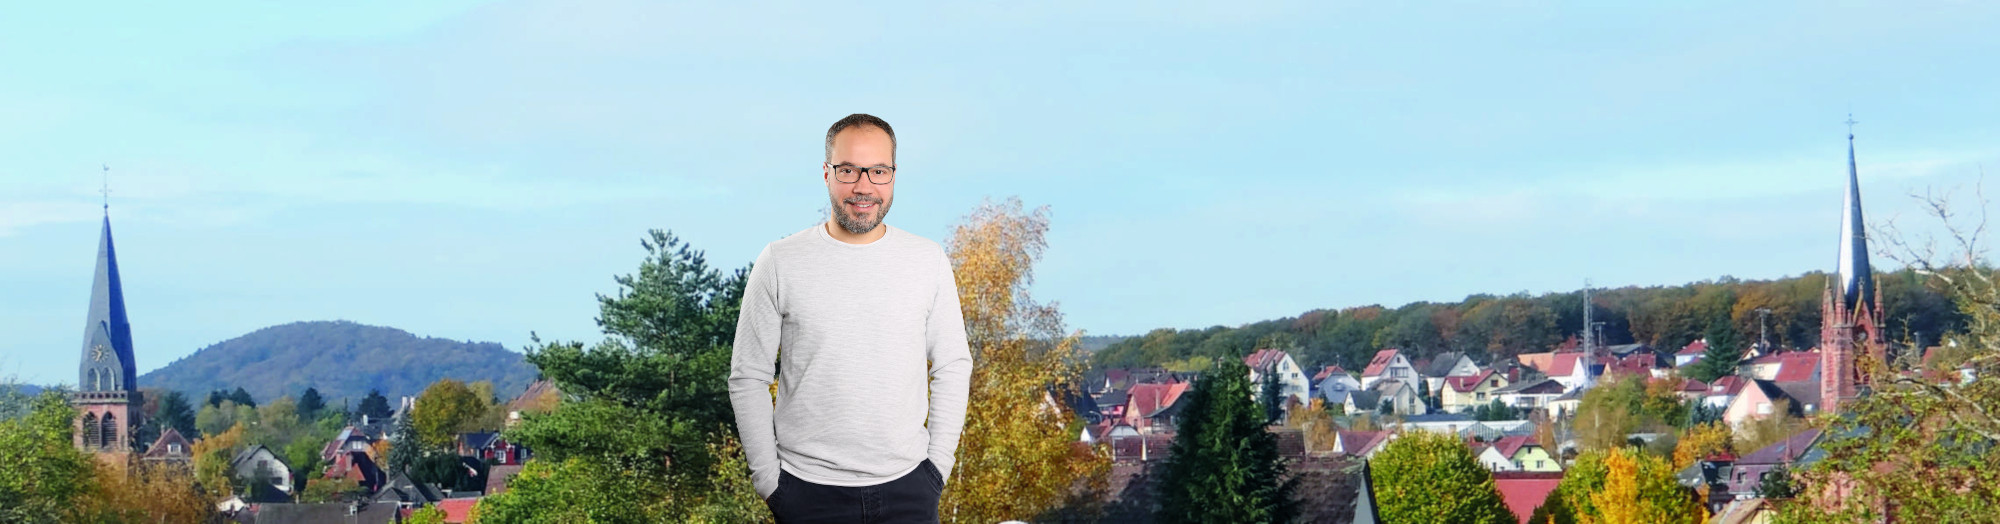
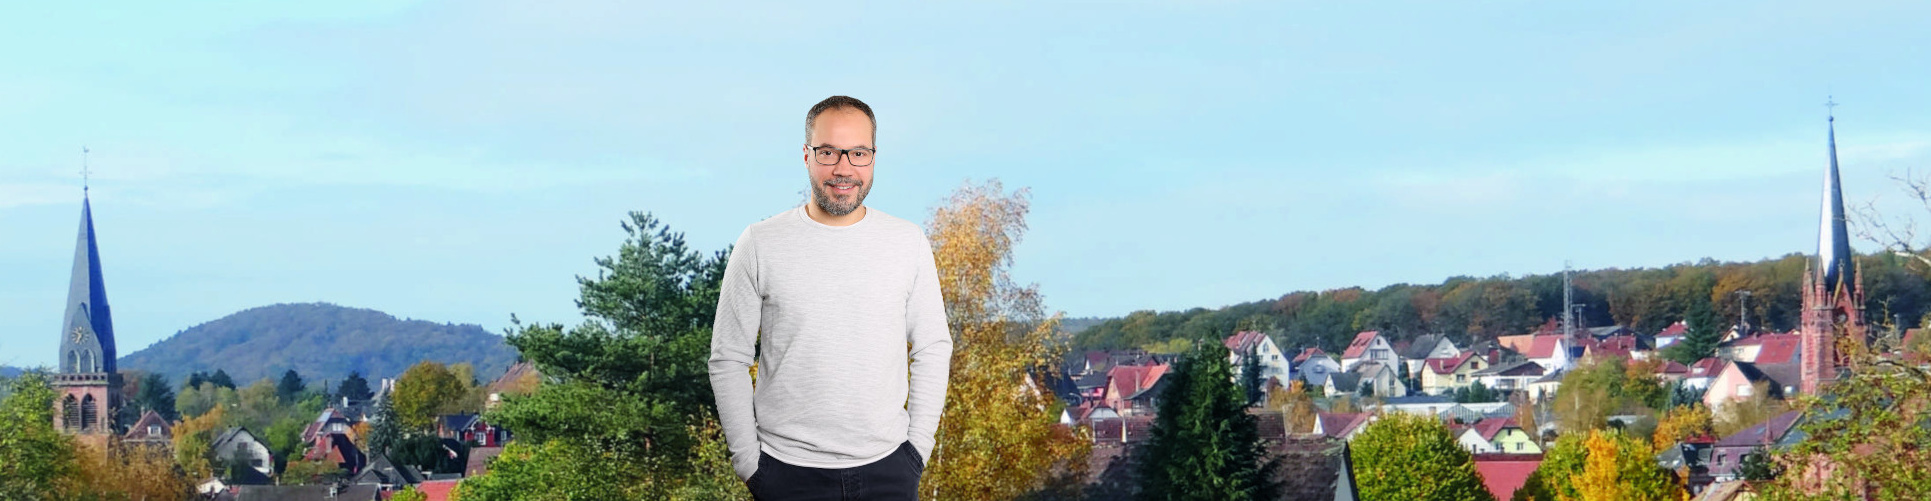
essais position bandeau - left

Changed region(s): [[0.0, 0.1796, 1.0, 1.0]]

diff --git a/_site/2019/01/10/credits/index.html b/_site/2019/01/10/credits/index.html
@@ -741,7 +741,7 @@
               <div class="col-md-6">
                       <a href="#portfolioModal1000" data-toggle="modal" class="btn btn-primary btn-sm">Mentions légales</a>
                       <a href="#portfolioModal1001" data-toggle="modal" class="btn btn-primary btn-sm">Crédits</a>
-                      <button type="button" class="btn btn-primary btn-sm"><script type="text/javascript" src="//counter.websiteout.net/js/2/6/25/0"></script></button>
+                      <button type="button" class="btn btn-primary btn-sm"><script type="text/javascript" src="//counter.websiteout.net/js/7/6/25/0"></script></button>
               </div>
           </div>
       </div>

diff --git a/_site/2020/01/15/mentions/index.html b/_site/2020/01/15/mentions/index.html
@@ -741,7 +741,7 @@
               <div class="col-md-6">
                       <a href="#portfolioModal1000" data-toggle="modal" class="btn btn-primary btn-sm">Mentions légales</a>
                       <a href="#portfolioModal1001" data-toggle="modal" class="btn btn-primary btn-sm">Crédits</a>
-                      <button type="button" class="btn btn-primary btn-sm"><script type="text/javascript" src="//counter.websiteout.net/js/2/6/25/0"></script></button>
+                      <button type="button" class="btn btn-primary btn-sm"><script type="text/javascript" src="//counter.websiteout.net/js/7/6/25/0"></script></button>
               </div>
           </div>
       </div>

diff --git a/_site/2020/01/16/education/index.html b/_site/2020/01/16/education/index.html
@@ -741,7 +741,7 @@
               <div class="col-md-6">
                       <a href="#portfolioModal1000" data-toggle="modal" class="btn btn-primary btn-sm">Mentions légales</a>
                       <a href="#portfolioModal1001" data-toggle="modal" class="btn btn-primary btn-sm">Crédits</a>
-                      <button type="button" class="btn btn-primary btn-sm"><script type="text/javascript" src="//counter.websiteout.net/js/2/6/25/0"></script></button>
+                      <button type="button" class="btn btn-primary btn-sm"><script type="text/javascript" src="//counter.websiteout.net/js/7/6/25/0"></script></button>
               </div>
           </div>
       </div>

diff --git a/_site/2020/01/16/ingwiller_vert/index.html b/_site/2020/01/16/ingwiller_vert/index.html
@@ -741,7 +741,7 @@
               <div class="col-md-6">
                       <a href="#portfolioModal1000" data-toggle="modal" class="btn btn-primary btn-sm">Mentions légales</a>
                       <a href="#portfolioModal1001" data-toggle="modal" class="btn btn-primary btn-sm">Crédits</a>
-                      <button type="button" class="btn btn-primary btn-sm"><script type="text/javascript" src="//counter.websiteout.net/js/2/6/25/0"></script></button>
+                      <button type="button" class="btn btn-primary btn-sm"><script type="text/javascript" src="//counter.websiteout.net/js/7/6/25/0"></script></button>
               </div>
           </div>
       </div>

diff --git a/_site/2020/01/20/chere-mairie/index.html b/_site/2020/01/20/chere-mairie/index.html
@@ -741,7 +741,7 @@
               <div class="col-md-6">
                       <a href="#portfolioModal1000" data-toggle="modal" class="btn btn-primary btn-sm">Mentions légales</a>
                       <a href="#portfolioModal1001" data-toggle="modal" class="btn btn-primary btn-sm">Crédits</a>
-                      <button type="button" class="btn btn-primary btn-sm"><script type="text/javascript" src="//counter.websiteout.net/js/2/6/25/0"></script></button>
+                      <button type="button" class="btn btn-primary btn-sm"><script type="text/javascript" src="//counter.websiteout.net/js/7/6/25/0"></script></button>
               </div>
           </div>
       </div>

diff --git a/_site/2020/01/20/histoire-eau/index.html b/_site/2020/01/20/histoire-eau/index.html
@@ -741,7 +741,7 @@
               <div class="col-md-6">
                       <a href="#portfolioModal1000" data-toggle="modal" class="btn btn-primary btn-sm">Mentions légales</a>
                       <a href="#portfolioModal1001" data-toggle="modal" class="btn btn-primary btn-sm">Crédits</a>
-                      <button type="button" class="btn btn-primary btn-sm"><script type="text/javascript" src="//counter.websiteout.net/js/2/6/25/0"></script></button>
+                      <button type="button" class="btn btn-primary btn-sm"><script type="text/javascript" src="//counter.websiteout.net/js/7/6/25/0"></script></button>
               </div>
           </div>
       </div>

diff --git a/_site/2020/01/20/steeve/index.html b/_site/2020/01/20/steeve/index.html
@@ -741,7 +741,7 @@
               <div class="col-md-6">
                       <a href="#portfolioModal1000" data-toggle="modal" class="btn btn-primary btn-sm">Mentions légales</a>
                       <a href="#portfolioModal1001" data-toggle="modal" class="btn btn-primary btn-sm">Crédits</a>
-                      <button type="button" class="btn btn-primary btn-sm"><script type="text/javascript" src="//counter.websiteout.net/js/2/6/25/0"></script></button>
+                      <button type="button" class="btn btn-primary btn-sm"><script type="text/javascript" src="//counter.websiteout.net/js/7/6/25/0"></script></button>
               </div>
           </div>
       </div>

diff --git a/_site/2020/01/20/transparence/index.html b/_site/2020/01/20/transparence/index.html
@@ -741,7 +741,7 @@
               <div class="col-md-6">
                       <a href="#portfolioModal1000" data-toggle="modal" class="btn btn-primary btn-sm">Mentions légales</a>
                       <a href="#portfolioModal1001" data-toggle="modal" class="btn btn-primary btn-sm">Crédits</a>
-                      <button type="button" class="btn btn-primary btn-sm"><script type="text/javascript" src="//counter.websiteout.net/js/2/6/25/0"></script></button>
+                      <button type="button" class="btn btn-primary btn-sm"><script type="text/javascript" src="//counter.websiteout.net/js/7/6/25/0"></script></button>
               </div>
           </div>
       </div>

diff --git a/_site/index.html b/_site/index.html
@@ -739,7 +739,7 @@
               <div class="col-md-6">
                       <a href="#portfolioModal1000" data-toggle="modal" class="btn btn-primary btn-sm">Mentions légales</a>
                       <a href="#portfolioModal1001" data-toggle="modal" class="btn btn-primary btn-sm">Crédits</a>
-                      <button type="button" class="btn btn-primary btn-sm"><script type="text/javascript" src="//counter.websiteout.net/js/2/6/25/0"></script></button>
+                      <button type="button" class="btn btn-primary btn-sm"><script type="text/javascript" src="//counter.websiteout.net/js/7/6/25/0"></script></button>
               </div>
           </div>
       </div>

diff --git a/_includes/css/agency.css b/_includes/css/agency.css
@@ -288,7 +288,7 @@ header {
     color: #fff;
     background-attachment: scroll;
     background-image: linear-gradient(to bottom,  #222 0%,transparent 18%),url('{{ site.baseurl }}/img/header-bg_01.jpg');
-    background-position: center center;
+    background-position: left center;
     background-repeat: none;
     -webkit-background-size: cover;
     -moz-background-size: cover;

diff --git a/_site/style.css b/_site/style.css
@@ -296,7 +296,7 @@ header {
     color: #fff;
     background-attachment: scroll;
     background-image: linear-gradient(to bottom,  #222 0%,transparent 18%),url('/img/header-bg_01.jpg');
-    background-position: center center;
+    background-position: left center;
     background-repeat: none;
     -webkit-background-size: cover;
     -moz-background-size: cover;
